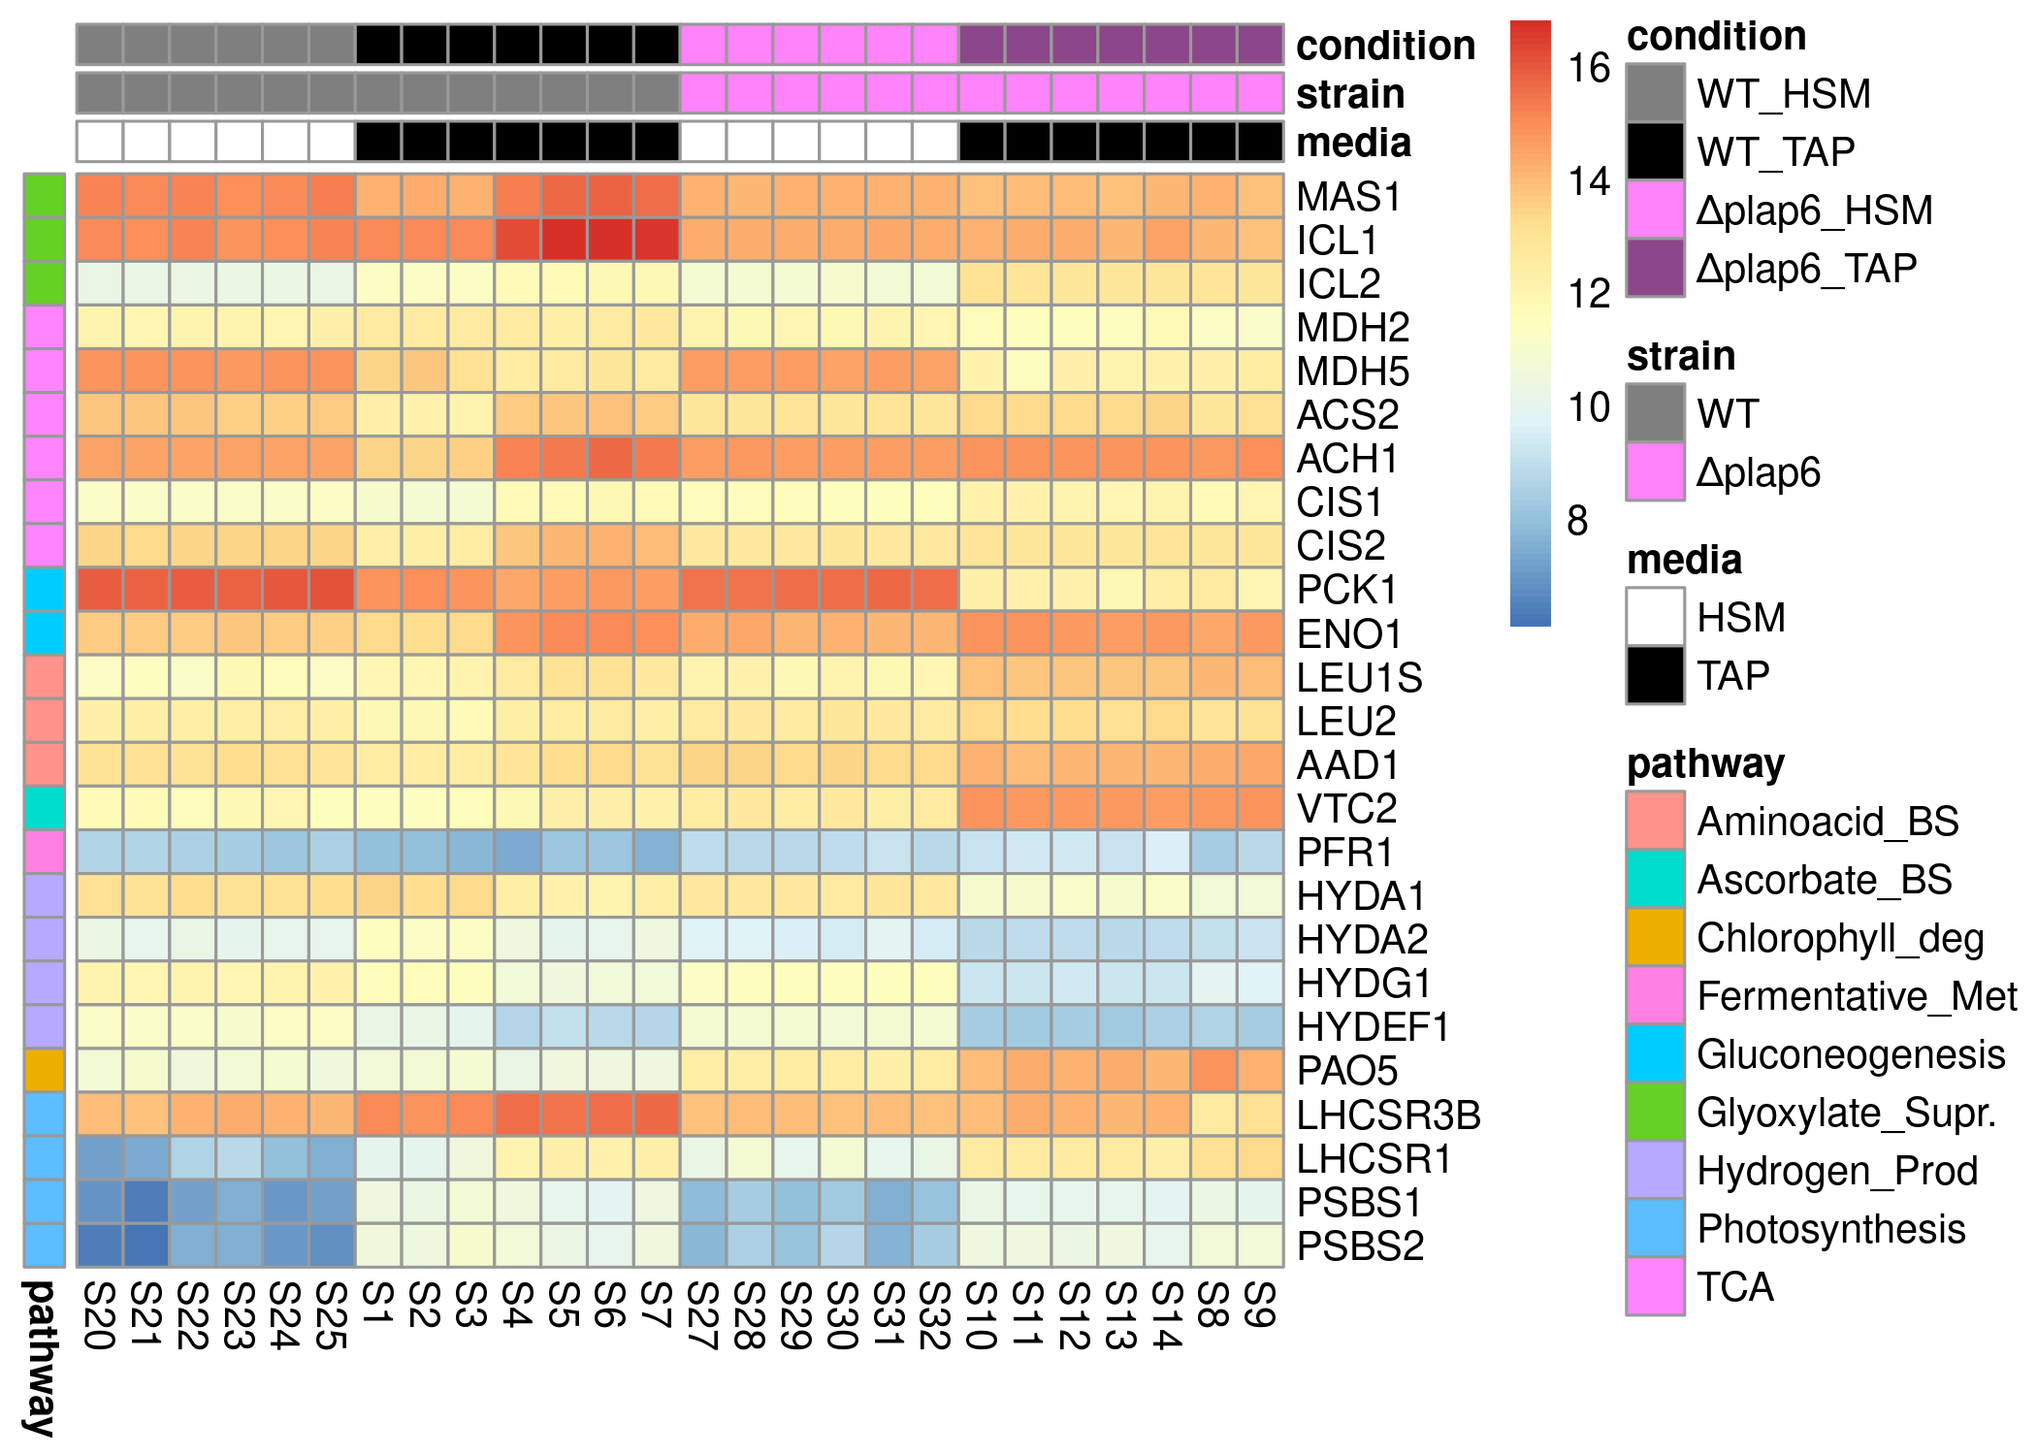
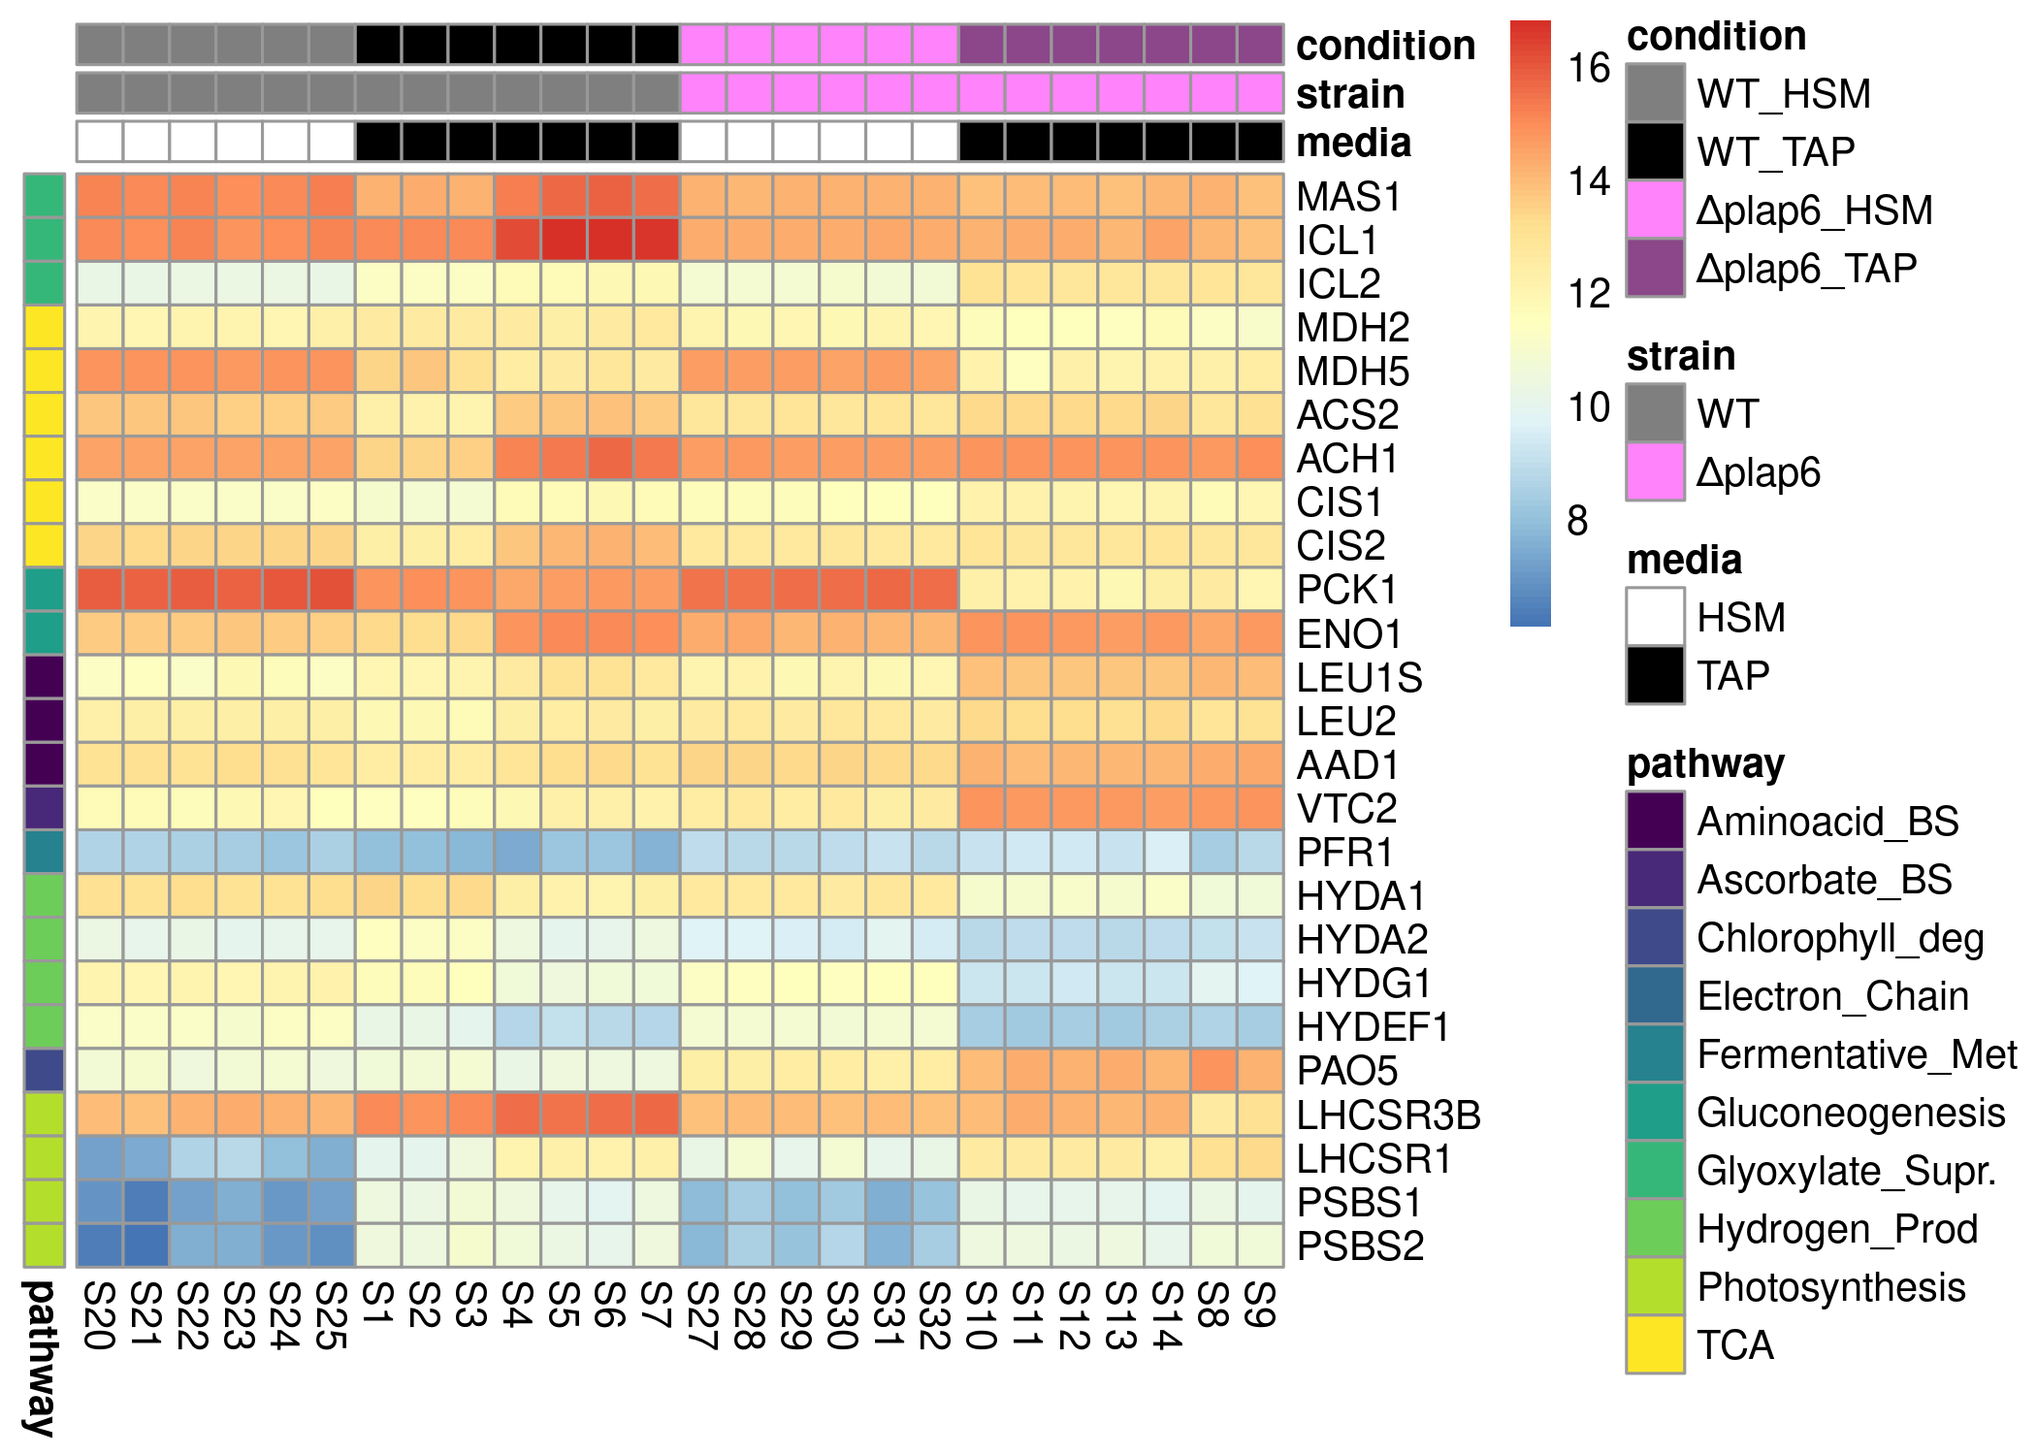
viridis

Changed region(s): [[0.7738, 0.5213, 0.9905, 0.9507], [0.0, 0.1227, 0.031, 0.8893]]

diff --git a/2_data_dive/Readme.md b/2_data_dive/Readme.md
@@ -87,28 +87,28 @@
 ### R functions
 
     getresults_SK <- function(contrast,nres){
-    r1 <- results(dds, contrast = contrast)
-    r1$symbol <- mcols(dds)$symbol
-    assign(paste("res",nres,sep="."),r1)
-    r1 <- list(r1)
-    names(r1) <- nres
-    r1
+      r1 <- results(dds, contrast = contrast)
+      r1$symbol <- mcols(dds)$symbol
+      assign(paste("res",nres,sep="."),r1)
+      r1 <- list(r1)
+      names(r1) <- nres
+      r1
     }
 
 
     topgenes_f <- function(res,p=0.05,bM=10,l2FC=1){
-    a <- subset(res, padj < p & baseMean > bM & abs(log2FoldChange) > l2FC)
-    if(nrow(a)>0) {
-    a <- a[order(a$baseMean, decreasing = T),]
-      a$rank.bm <- seq(1:length(rownames(a)))
-    a <- a[order(a$padj, decreasing = F),]
-      a$rank.padj <- seq(1:length(rownames(a)))
-    a <- a[order(abs(a$log2FoldChange), decreasing = T),]
-      a$rank.l2FC <- seq(1:length(rownames(a)))
-    a$rank.sum <- a$rank.l2FC+a$rank.bm+a$rank.padj
-      a <- a[order(a$rank.sum),]
+      a <- subset(res, padj < p & baseMean > bM & abs(log2FoldChange) > l2FC)
+      if(nrow(a)>0) {
+        a <- a[order(a$baseMean, decreasing = T),]
+        a$rank.bm <- seq(1:length(rownames(a)))
+        a <- a[order(a$padj, decreasing = F),]
+        a$rank.padj <- seq(1:length(rownames(a)))
+        a <- a[order(abs(a$log2FoldChange), decreasing = T),]
+        a$rank.l2FC <- seq(1:length(rownames(a)))
+        a$rank.sum <- a$rank.l2FC+a$rank.bm+a$rank.padj
+        a <- a[order(a$rank.sum),]
       }
-    a
+      a
     }
 
 ## Load dds
@@ -258,7 +258,7 @@
 
     l <- length(res_l)
     for (j in 1:l){
-    res_ashr_list[[names(res_l)[j]]] <- lfcShrink(res=res_l[[j]], dds=dds, type="ashr")
+      res_ashr_list[[names(res_l)[j]]] <- lfcShrink(res=res_l[[j]], dds=dds, type="ashr")
     }
 
 
@@ -3768,7 +3768,7 @@ class="uri">https://www.chlamylibrary.org/showGene?geneIdentifier=Cre10.g429800<
         scale_color_manual(values=c("grey30","orchid1")) +
         scale_fill_manual(values=c("grey30","orchid1")) +
         theme_bw() +
-    #    ggtitle(paste0(s," (",goi[i,"gene_id"],")")) +
+        #    ggtitle(paste0(s," (",goi[i,"gene_id"],")")) +
         ggtitle(s) +
         theme(plot.title = element_text(hjust = 0.5)) + 
         ylab("Normalized RNA counts [log2])")
@@ -3836,15 +3836,15 @@ class="uri">https://www.chlamylibrary.org/showGene?geneIdentifier=Cre10.g429800<
     d <-  plotCounts(dds, gene=i, intgroup=c("condition","media","genotype"),main=s,returnData=TRUE)
 
     gt <- ggplot(d[d$media == "TAP",], aes(x = media, y = count, color = genotype)) + 
-        geom_boxplot(aes(fill=genotype), alpha=0.5) +
-        geom_point(position=position_dodge(width=0.75)) +
-        scale_y_continuous(trans = "log2") +
-        # coord_cartesian(ylim = c(0,2500)) +
-        scale_color_manual(values=c("grey30","orchid1")) +
-        scale_fill_manual(values=c("grey30","orchid1")) +
-        theme_bw() +
-        ggtitle(s) +
-        theme(plot.title = element_text(hjust = 0.5))
+      geom_boxplot(aes(fill=genotype), alpha=0.5) +
+      geom_point(position=position_dodge(width=0.75)) +
+      scale_y_continuous(trans = "log2") +
+      # coord_cartesian(ylim = c(0,2500)) +
+      scale_color_manual(values=c("grey30","orchid1")) +
+      scale_fill_manual(values=c("grey30","orchid1")) +
+      theme_bw() +
+      ggtitle(s) +
+      theme(plot.title = element_text(hjust = 0.5))
     plot(gt)
 
 <img src="Readme_files/figure-markdown_strict/counts_cia5_rbcl-1.png" width="33%" /><img src="Readme_files/figure-markdown_strict/counts_cia5_rbcl-2.png" width="33%" /><img src="Readme_files/figure-markdown_strict/counts_cia5_rbcl-3.png" width="33%" /><img src="Readme_files/figure-markdown_strict/counts_cia5_rbcl-4.png" width="33%" /><img src="Readme_files/figure-markdown_strict/counts_cia5_rbcl-5.png" width="33%" /><img src="Readme_files/figure-markdown_strict/counts_cia5_rbcl-6.png" width="33%" /><img src="Readme_files/figure-markdown_strict/counts_cia5_rbcl-7.png" width="33%" /><img src="Readme_files/figure-markdown_strict/counts_cia5_rbcl-8.png" width="33%" /><img src="Readme_files/figure-markdown_strict/counts_cia5_rbcl-9.png" width="33%" /><img src="Readme_files/figure-markdown_strict/counts_cia5_rbcl-10.png" width="33%" /><img src="Readme_files/figure-markdown_strict/counts_cia5_rbcl-11.png" width="33%" /><img src="Readme_files/figure-markdown_strict/counts_cia5_rbcl-12.png" width="33%" /><img src="Readme_files/figure-markdown_strict/counts_cia5_rbcl-13.png" width="33%" /><img src="Readme_files/figure-markdown_strict/counts_cia5_rbcl-14.png" width="33%" />
@@ -3966,7 +3966,7 @@ class="uri">https://www.chlamylibrary.org/showGene?geneIdentifier=Cre10.g429800<
       d$sample <- rownames(d)
       rownames(d) <- {}
       all_counts <- bind_rows(all_counts,d)
-      }
+    }
 
     all_counts$condition <- factor(all_counts$condition, levels = c("WT_TAP","WT_HSM","Δplap6_TAP","Δplap6_HSM"))
 
@@ -3990,7 +3990,7 @@ class="uri">https://www.chlamylibrary.org/showGene?geneIdentifier=Cre10.g429800<
       theme_bw() +
       removeGrid(x=T, y=T) +
       theme(axis.text.x = element_text(angle = 90)) +
-        geom_vline(xintercept=seq(1,length(levels(all_counts$Gene))-1,1)+.5,color="grey") +
+      geom_vline(xintercept=seq(1,length(levels(all_counts$Gene))-1,1)+.5,color="grey") +
       scale_y_continuous(trans = "log2") & plot_annotation(title = colData(dds)$experiment[1])
     gcounts_coqs %>% print()
 
@@ -4012,7 +4012,7 @@ class="uri">https://www.chlamylibrary.org/showGene?geneIdentifier=Cre10.g429800<
       d$sample <- rownames(d)
       rownames(d) <- {}
       all_counts <- bind_rows(all_counts,d)
-      }
+    }
 
     # all_counts$Gene
     levels(all_counts$condition)
@@ -4037,7 +4037,7 @@ class="uri">https://www.chlamylibrary.org/showGene?geneIdentifier=Cre10.g429800<
       labs(title = "COQ genes (core)") + 
       theme_bw() +
       removeGrid(x=T, y=T) +
-        geom_vline(xintercept=seq(1,length(levels(all_counts$Gene))-1,1)+.5,color="grey") +
+      geom_vline(xintercept=seq(1,length(levels(all_counts$Gene))-1,1)+.5,color="grey") +
       scale_y_continuous(trans = "log2", limits = c(2,NA)) & plot_annotation(title = colData(dds)$experiment[1])
     gcounts_coqs %>% print()
 
@@ -4155,34 +4155,34 @@ class="uri">https://www.chlamylibrary.org/showGene?geneIdentifier=Cre10.g429800<
     ## [1] 14617
 
     volcano_dd <- EnhancedVolcano(res,
-         lab = mcols(dds)[,"geneSymbol"],
-         selectLab = top_list$plap6_TAPvHSM.vs.WT_TAPvHSM[1:101,"symbol"],
-        x = 'log2FoldChange',
-        y = 'padj',
-        col=c("grey","grey","grey","orchid2"),
-        title = "Differences in media effect between plap6 and WT",
-        titleLabSize = 12,
-        subtitle = paste0("upregulated: ",up,", downregulated: ",down,"\n(total: ",total,")"),
-    #    subtitle = {},
-        subtitleLabSize = 10,
-        caption = NULL,
-        # xlim = c(-7,7),
-        ylim = c(0,50),
-        pCutoff = 0.05,
-        FCcutoff = 1,
-        maxoverlapsConnectors = 20,
-        drawConnectors = TRUE,
-        widthConnectors = 0.5,
-        colConnectors = "grey70",
-        legendLabels=c('ns','ns','ns',
-          'padj < 0.05 & Log2FC > 1'),
-        labSize = 4,
-        axisLabSize = 12,
-        legendLabSize = 12,
-        legendIconSize = 3,
-        gridlines.major = FALSE,
-        gridlines.minor = FALSE,
-        pointSize = 3
+                                  lab = mcols(dds)[,"geneSymbol"],
+                                  selectLab = top_list$plap6_TAPvHSM.vs.WT_TAPvHSM[1:101,"symbol"],
+                                  x = 'log2FoldChange',
+                                  y = 'padj',
+                                  col=c("grey","grey","grey","orchid2"),
+                                  title = "Differences in media effect between plap6 and WT",
+                                  titleLabSize = 12,
+                                  subtitle = paste0("upregulated: ",up,", downregulated: ",down,"\n(total: ",total,")"),
+                                  #    subtitle = {},
+                                  subtitleLabSize = 10,
+                                  caption = NULL,
+                                  # xlim = c(-7,7),
+                                  ylim = c(0,50),
+                                  pCutoff = 0.05,
+                                  FCcutoff = 1,
+                                  maxoverlapsConnectors = 20,
+                                  drawConnectors = TRUE,
+                                  widthConnectors = 0.5,
+                                  colConnectors = "grey70",
+                                  legendLabels=c('ns','ns','ns',
+                                                 'padj < 0.05 & Log2FC > 1'),
+                                  labSize = 4,
+                                  axisLabSize = 12,
+                                  legendLabSize = 12,
+                                  legendIconSize = 3,
+                                  gridlines.major = FALSE,
+                                  gridlines.minor = FALSE,
+                                  pointSize = 3
     )
     volcano_dd
 
@@ -5693,7 +5693,7 @@ cytochrome b559 alpha subunit
       d$sample <- rownames(d)
       rownames(d) <- {}
       all_counts <- bind_rows(all_counts,d)
-      }
+    }
 
     all_counts$Gene <- factor(all_counts$Gene)
     levels(all_counts$Gene)
@@ -5713,7 +5713,7 @@ cytochrome b559 alpha subunit
       labs(title = "TOP genes with different media effect (plap6 vs. WT)") + 
       theme_bw() +
       removeGrid(x=T, y=T) +
-        geom_vline(xintercept=seq(1,length(levels(all_counts$Gene))-1,1)+.5,color="grey") +
+      geom_vline(xintercept=seq(1,length(levels(all_counts$Gene))-1,1)+.5,color="grey") +
       scale_y_continuous(trans = "log2") & plot_annotation(title = colData(dds)$experiment[1])
     gcounts_top9 %>% print()
 
@@ -5864,7 +5864,7 @@ cytochrome b559 alpha subunit
     gene_table <- anno[str_detect(anno[["geneSymbol"]],paste(goi, collapse="|")),c(24,5,9,10,8)]
 
     gene_table <- bind_rows(gene_table,anno[str_detect(anno[["prev.symbols"]],paste("ICL2", collapse="|")),c(24,5,9,10,8)]
-                            )
+    )
     gene_table["Cre03.g149250","geneSymbol"] <- "ICL2"
     gene_table$pathway <- "Glyoxylate_Supr."
 
@@ -6013,6 +6013,7 @@ cytochrome b559 alpha subunit
 
     gene_table <- bind_rows(gene_table,genes_Gluconeogenesis)
 
+    gene_table$pathway <- gene_table$pathway %>% factor()
 
     gene_table %>% kable()
 
@@ -6169,6 +6170,8 @@ associated with central pair projection C1b (PMID: 16030251).</td>
     metabolic_genes <- gene_table
 
 
+
+    # Import from XLS
     xls_table <- read_xlsx(paste(outdir,"Metabolic_Gene_List_v2.xlsx",sep="/"))
 
     anno[xls_table$gene_id,c(24,5,9,10,8)] %>% kable()
@@ -6470,6 +6473,7 @@ by UVR8</td>
 </table>
 
     metabolic_genes2 <- bind_cols(xls_table[,c(1:3,7)],anno[xls_table$gene_id,c(9,10,8)])
+    metabolic_genes2$pathway <- metabolic_genes2$pathway %>% factor()
 
     # Cre16.g658400 FDX2 not in results
     metabolic_genes2 <- metabolic_genes2[-21,]
@@ -6756,7 +6760,7 @@ Chloroplast localized#</td>
       d$sample <- rownames(d)
       rownames(d) <- {}
       all_counts <- bind_rows(all_counts,d)
-      }
+    }
 
     max_val <- 1.0*max(all_counts$count)
 
@@ -6773,7 +6777,7 @@ Chloroplast localized#</td>
       labs(title = "Metabolic Genes") + 
       theme_bw() +
       removeGrid(x=T, y=T) +
-        geom_vline(xintercept=seq(1,length(levels(all_counts$Gene))-1,1)+.5,color="grey") +
+      geom_vline(xintercept=seq(1,length(levels(all_counts$Gene))-1,1)+.5,color="grey") +
       theme(axis.text.x = element_text(angle = 90)) +
       scale_y_continuous(trans = "log2", limits = c(2,NA)) & plot_annotation(title = colData(dds)$experiment[1])
     gcounts_metabolic %>% print()
@@ -6831,34 +6835,34 @@ Chloroplast localized#</td>
     ## [1] 25
 
     volcano_dd <- EnhancedVolcano(res,
-         lab = metabolic_genes2$geneSymbol,
-         selectLab =metabolic_genes2$geneSymbol,
-        x = 'log2FoldChange',
-        y = 'padj',
-        col=c("grey","grey","grey","orchid2"),
-        title = "Differences in media effect between plap6 and WT",
-        titleLabSize = 12,
-        subtitle = paste0("upregulated: ",up,", downregulated: ",down,"\n(total: ",total,")"),
-    #    subtitle = {},
-        subtitleLabSize = 10,
-        caption = NULL,
-        # xlim = c(-7,7),
-        ylim = c(0,50),
-        pCutoff = 0.05,
-        FCcutoff = 1,
-        maxoverlapsConnectors = 20,
-        drawConnectors = TRUE,
-        widthConnectors = 0.5,
-        colConnectors = "grey70",
-        legendLabels=c('ns','ns','ns',
-          'padj < 0.05 & Log2FC > 1'),
-        labSize = 4,
-        axisLabSize = 12,
-        legendLabSize = 12,
-        legendIconSize = 3,
-        gridlines.major = FALSE,
-        gridlines.minor = FALSE,
-        pointSize = 3
+                                  lab = metabolic_genes2$geneSymbol,
+                                  selectLab =metabolic_genes2$geneSymbol,
+                                  x = 'log2FoldChange',
+                                  y = 'padj',
+                                  col=c("grey","grey","grey","orchid2"),
+                                  title = "Differences in media effect between plap6 and WT",
+                                  titleLabSize = 12,
+                                  subtitle = paste0("upregulated: ",up,", downregulated: ",down,"\n(total: ",total,")"),
+                                  #    subtitle = {},
+                                  subtitleLabSize = 10,
+                                  caption = NULL,
+                                  # xlim = c(-7,7),
+                                  ylim = c(0,50),
+                                  pCutoff = 0.05,
+                                  FCcutoff = 1,
+                                  maxoverlapsConnectors = 20,
+                                  drawConnectors = TRUE,
+                                  widthConnectors = 0.5,
+                                  colConnectors = "grey70",
+                                  legendLabels=c('ns','ns','ns',
+                                                 'padj < 0.05 & Log2FC > 1'),
+                                  labSize = 4,
+                                  axisLabSize = 12,
+                                  legendLabSize = 12,
+                                  legendIconSize = 3,
+                                  gridlines.major = FALSE,
+                                  gridlines.minor = FALSE,
+                                  pointSize = 3
     )
     volcano_dd
 
@@ -6880,13 +6884,18 @@ Chloroplast localized#</td>
     anno_row <- as.data.frame(metabolic_genes2["pathway"])
     rownames(anno_row) <- metabolic_genes2$geneSymbol
 
+    pl <- metabolic_genes2$pathway %>% levels() %>% length()
+
     anno_colors <- list(media = c("white","black"),
                         strain = c("grey50","orchid1"),
-                        condition = group.colors)
+                        condition = group.colors,
+                        pathway = viridis(pl))
 
     names(anno_colors$media) <- levels(anno_col$media)
     names(anno_colors$strain) <- levels(anno_col$strain)
     names(anno_colors$condition) <- levels(anno_col$condition)
+    names(anno_colors$pathway) <- levels(anno_row$pathway)
+
 
     xx <- pheatmap(df, cluster_rows=FALSE, show_rownames=TRUE,
                    cluster_cols=FALSE, annotation_col=anno_col,
@@ -6915,6 +6924,7 @@ Chloroplast localized#</td>
       geom_point() +
       geom_text_repel(aes(label = df$geneSymbol), size=4) +
       theme_bw() +
+      scale_colour_viridis_d() +
       coord_fixed(ratio = 1, xlim = c(min,max),ylim=c(min,max)) +
       geom_abline(col="grey") +
       ggtitle("Acetate effect (TAP vs. HSM)") +
@@ -6930,7 +6940,7 @@ Chloroplast localized#</td>
       d$sample <- rownames(d)
       rownames(d) <- {}
       all_counts <- bind_rows(all_counts,d)
-      }
+    }
 
     max_val <- 1.0*max(all_counts$count)
 
@@ -6947,12 +6957,14 @@ Chloroplast localized#</td>
       labs(title = "Metabolic Genes") + 
       theme_bw() +
       removeGrid(x=T, y=T) +
-        geom_vline(xintercept=seq(1,length(levels(all_counts$Gene))-1,1)+.5,color="grey") +
+      geom_vline(xintercept=seq(1,length(levels(all_counts$Gene))-1,1)+.5,color="grey") +
       scale_y_continuous(trans = "log2", limits = c(2,NA)) & plot_annotation(title = colData(dds)$experiment[1])
 
     cross+counts
 
 ![](Readme_files/figure-markdown_strict/Cross-1.png)
+
+#### Simple log2FC
 
 # GO-terms
 
